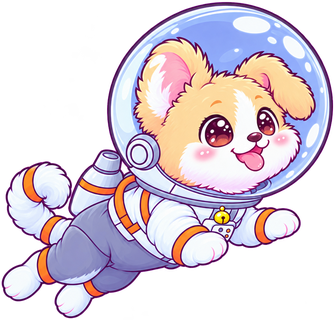
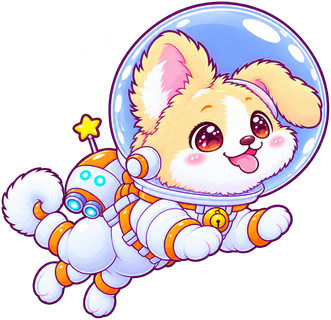
v0.8.05 방울이 우주복 새로 — 큰 동그란 헬멧(귀 제 크기), 동글동글 우주복, 우주 캡슐 배낭, 머리:몸 1:1

diff --git a/index.html b/index.html
@@ -1027,7 +1027,7 @@
   const elTitle = document.getElementById("overTitle");
   const coinNote = document.getElementById("coinNote");
 
-  const GAME_VERSION = "v0.8.04";
+  const GAME_VERSION = "v0.8.05";
   /* 제작사 스플래시(bamhobak friends 로고) — 2026-09-20 끔. 다시 켜려면 true */
   const SPLASH_USE = false;   // 코드를 고칠 때마다 뒤 두 자리를 올린다
   document.getElementById("ver").textContent = GAME_VERSION;
@@ -1572,14 +1572,14 @@
        꼬리는 우주복 꼬리 덮개 안에 넣었다(OpenAI space2_3). 헤엄은 Ludo 56장 시트(8x7, 칸 231x200) —
        "귀는 헬멧 안에서 살짝만, 헬멧은 모양이 안 변함". 맞은 그림(spacehurt2_3)은 얼굴을 찌푸려 작게
        잡히므로 얼굴 대신 헬멧 지름이 헤엄 때와 같아지게 adj 를 잡았다 (안 그러면 맞는 순간 16% 커진다). */
-    /* v0.8.04 꼬리를 다시 — 땅 위에서는 짧고 등 위로 말려 있는데 우주복에서는 길게 뻗고 펴져 보였다.
-       원본(space3_1)은 땅 위 꼬리를 참고로 짧게 말린 꼬리 덮개로 다시 뽑고, Ludo 에는 "꼬리는 말린 채
-       절대 펴지지 않고 살짝만 튄다"를 못 박았다. 헤엄 64장 시트(8x8, 칸 190x200), 맞은 그림 spacehurt3_1.
-       얼굴 크기는 adj 0.571 로 땅 위와 같고, 맞은 그림은 헬멧 지름이 헤엄 때와 같아지게 adj 를 잡았다. */
-    right: { img: null, aspect: 0.9515, head: 0.430, cx: 0.640, cy: 0.380, adj: 0.5710,
-             bcx: 0.500, bcy: 0.520, brr: 0.520, float: true },
-    hurt:  { img: null, aspect: 0.9313, head: 0.465, cx: 0.700, cy: 0.420, adj: 0.5920,
-             bcx: 0.520, bcy: 0.520, brr: 0.520 }
+    /* v0.8.05 우주복을 새로 — 동그란 큰 헬멧(귀가 땅 위와 같은 크기로 들어간다), 동글동글 마시멜로 우주복,
+       우주 캡슐 배낭(별 안테나·하늘색 불빛·분사구), 짧게 말린 꼬리 덮개. 땅 위처럼 머리:몸 1:1 로 몸을 줄였다
+       (OpenAI space6_1 → Ludo 64장 시트 8x8, 칸 203x200). 귀 주머니 헬멧도 뽑아 봤으나 모양이 어색해서 버렸다.
+       얼굴 크기는 adj 0.571 로 땅 위와 같고, 맞은 그림(spacehurt6_1)은 헬멧 지름이 헤엄 때와 같아지게 adj 를 잡았다. */
+    right: { img: null, aspect: 1.0130, head: 0.450, cx: 0.640, cy: 0.400, adj: 0.5710,
+             bcx: 0.500, bcy: 0.520, brr: 0.500, float: true },
+    hurt:  { img: null, aspect: 0.9062, head: 0.400, cx: 0.700, cy: 0.420, adj: 0.5870,
+             bcx: 0.520, bcy: 0.540, brr: 0.500 }
   };
   /* 무소유 전용 우주복 —
      헬멧이 판정원이라 지름·중심을 재어 넣었다 (몸 높이는 다른 직업과 같은 1.475D). */

diff --git a/README.md b/README.md
@@ -5,7 +5,7 @@
 👉 **플레이: https://bamhobak.github.io/ddongpi/**
 
 > 이 문서는 `index.html` 의 실제 값을 옮겨 적은 것입니다. 숫자를 고쳤으면 여기도 같이 고쳐 주세요.
-> 마지막으로 맞춰 본 판: **v0.8.04**
+> 마지막으로 맞춰 본 판: **v0.8.05**
 
 ## 조작
 - 📱 모바일: 화면 아무 데나 손가락을 대고 좌우로 **끌기** (누른 자리가 기준점 — 순간이동하지 않음). 조작은 이 하나뿐입니다 — 십자패드는 v0.8.02 에 없앴습니다
@@ -292,9 +292,9 @@
 |---|---|---|
 | `bangul_right.png` (얌전히 앉은 정면) | OpenAI `gpt-image-2` (`tools/gen_sprite.py`) | **소개 전용** — 직업 카드·직업 소개·순위표 |
 | `bangul_hurt.png` (맞았을 때, 1초) | OpenAI — 머리에 혹·별, 눈 `> <`, 눈물, 엉엉 | 게임 안 |
-| `bangul_space_right.png` (우주복 정지) | OpenAI — 유리 헬멧·흰 옷 주황 줄·산소통, **큰 헬멧(귀가 여유 있게 안에)**, 꼬리는 **우주복 꼬리 덮개** 안 — 땅 위처럼 **짧고 등 위로 말린** 모양 (v0.8.04) | 우주복 헤엄의 원본 |
+| `bangul_space_right.png` (우주복 정지) | OpenAI — **큰 동그란 유리 헬멧**(귀가 땅 위와 같은 크기로 쏙), 동글동글 마시멜로 우주복, 우주 캡슐 배낭(별 안테나·하늘색 불빛·분사구), 짧게 말린 꼬리 덮개, 땅 위처럼 **머리:몸 1:1** (v0.8.05) | 우주복 헤엄의 원본 |
 | `bangul_space_swim_sheet.webp` (우주 개헤엄 64장, 78초~) | 위 그림을 Ludo 로 움직임 (귀는 헬멧 안에서 살짝만 까딱, 꼬리는 말린 채 살짝만 튐 — 펴지지 않게) | 게임 안 |
-| `bangul_space_hurt.png` (우주에서 맞았을 때) | OpenAI — 헬멧에 금, `> <` 로 엉엉, 별 (새 큰 헬멧·꼬리 덮개) | 게임 안 |
+| `bangul_space_hurt.png` (우주에서 맞았을 때) | OpenAI — 헬멧에 금, `> <` 로 엉엉, 별 (새 우주복·짧은 몸) | 게임 안 |
 | `bangul_swim_sheet.webp` (개헤엄 49장, 7×7 시트) | 위 그림을 Ludo `animateSprite`(hydra, 3초, "귀가 날개처럼 크게 펄럭이게")로 움직임 | 게임 안 |
 
 (2026-09-22 흰 푸들에서 바뀜 — 땅 위·우주복 모두 헤엄·맞은 그림까지 교체 완료.)
